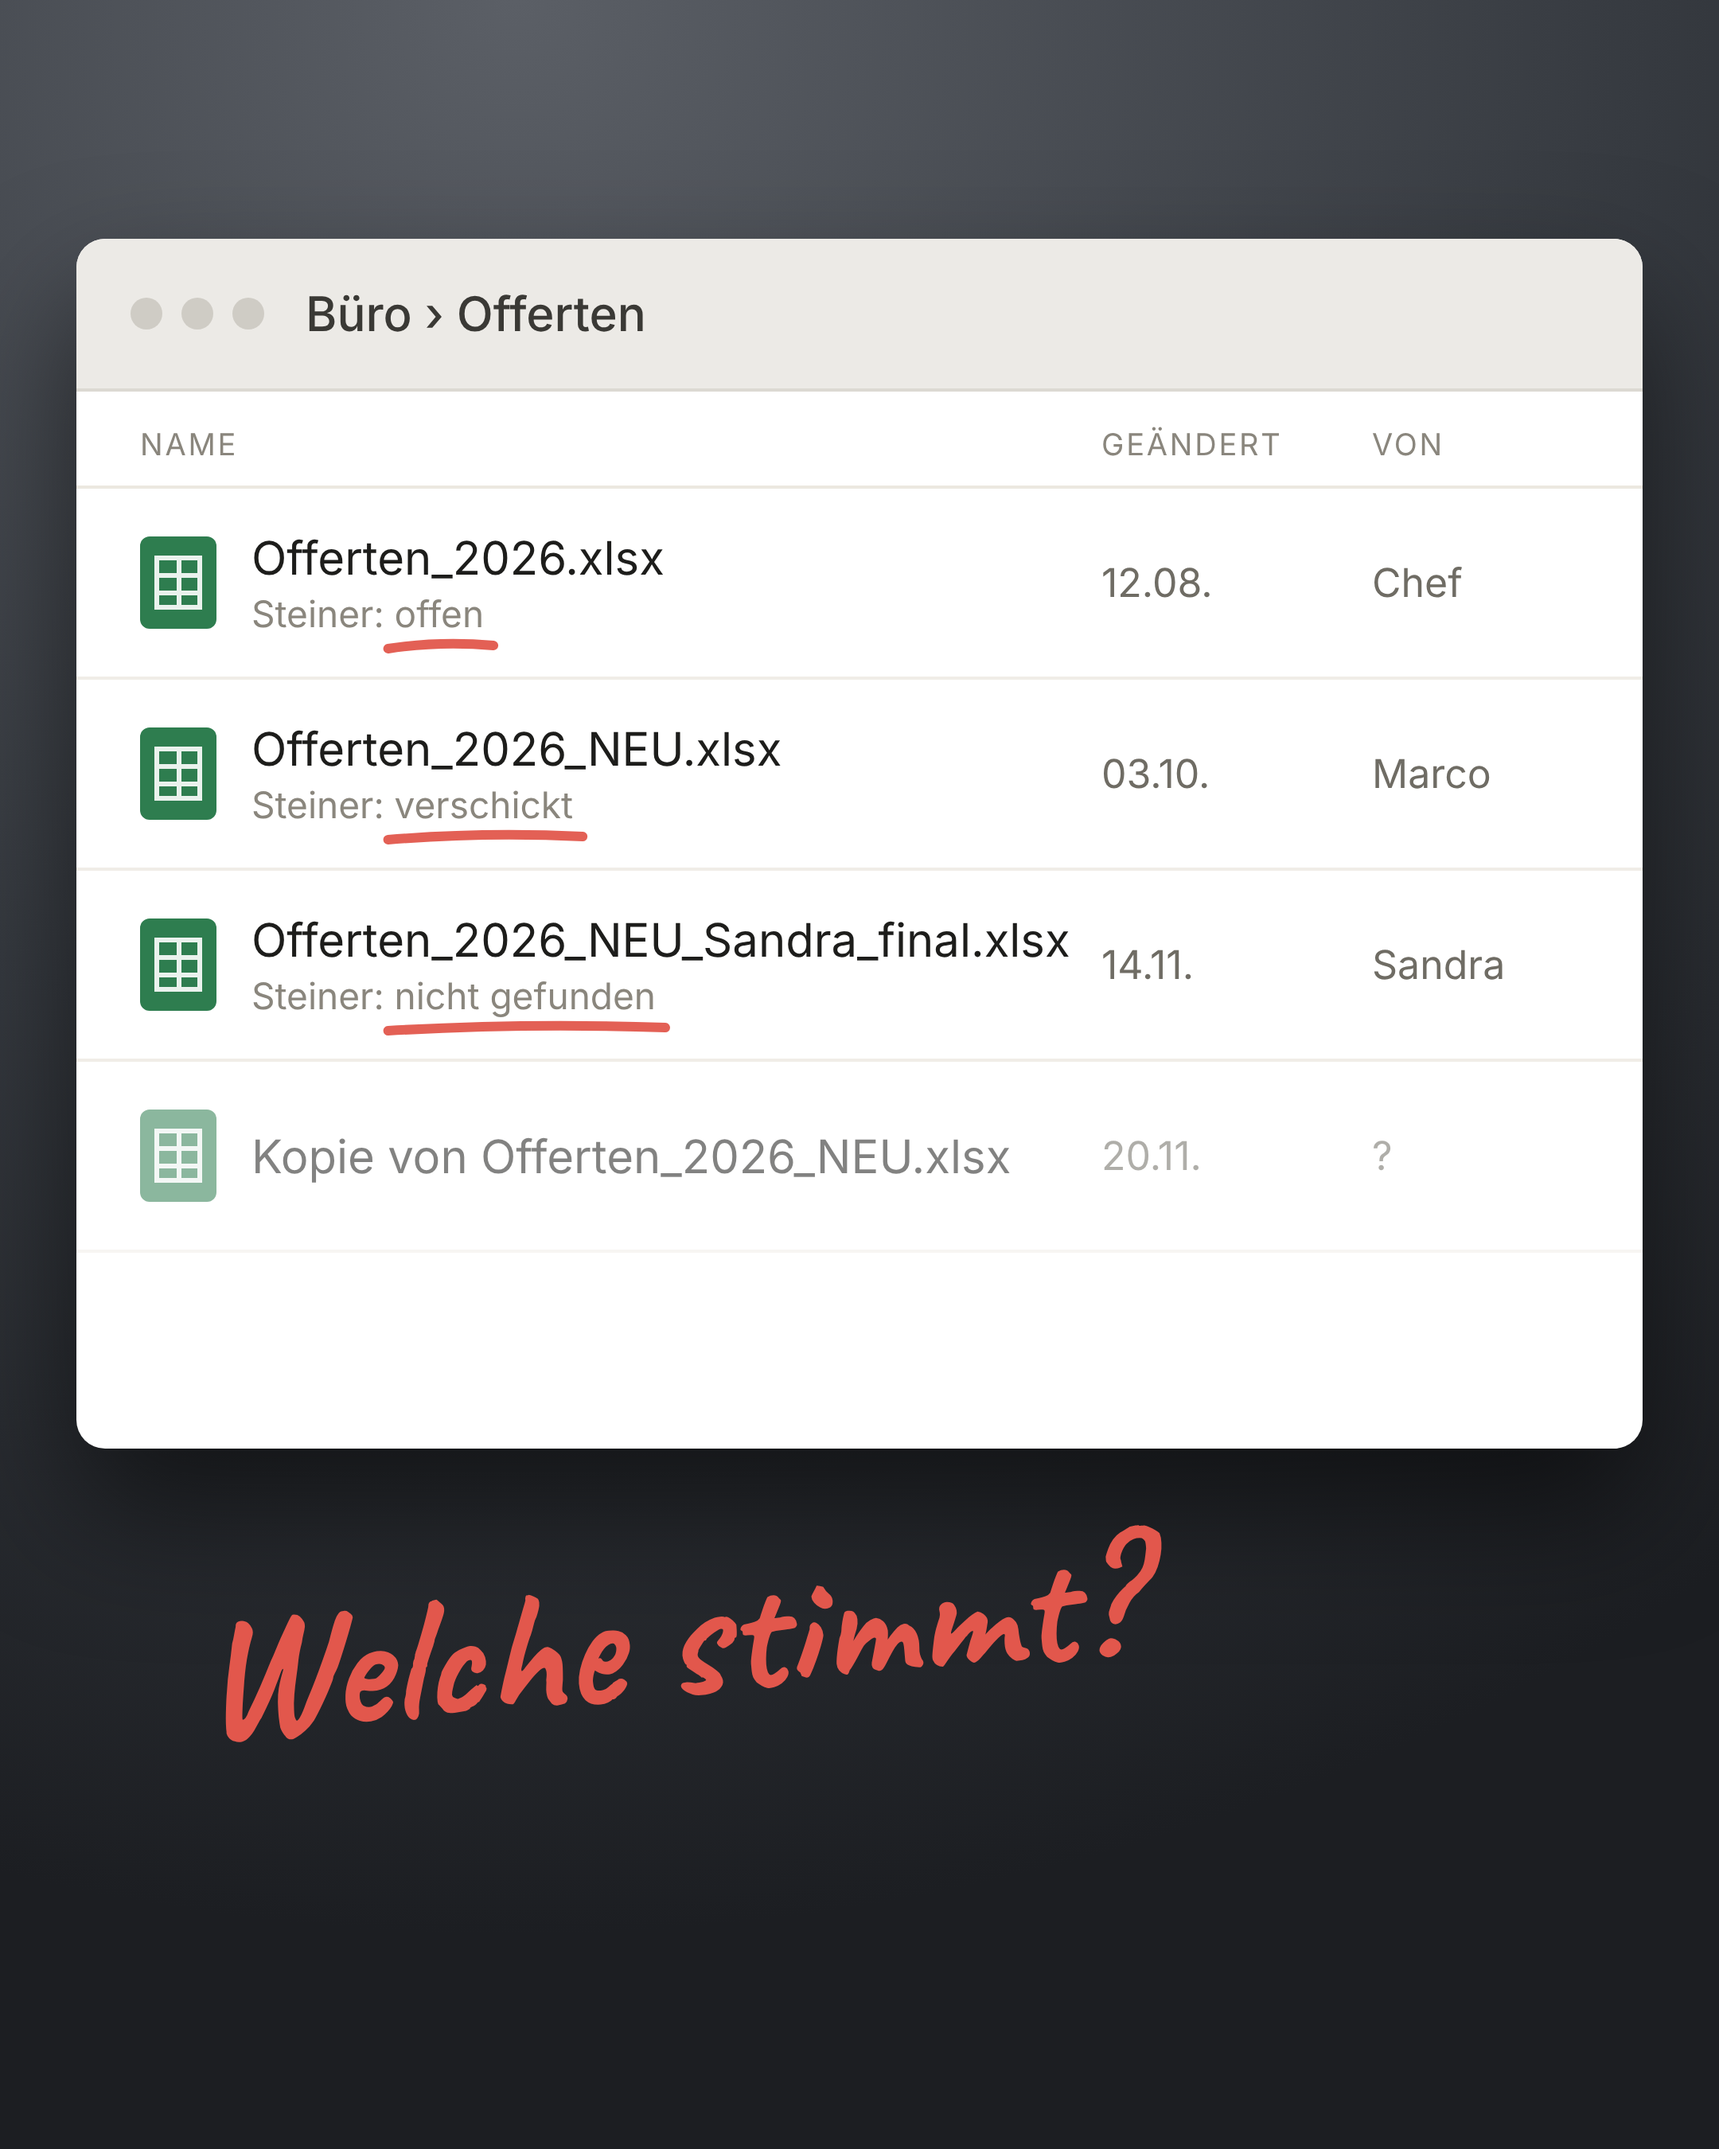
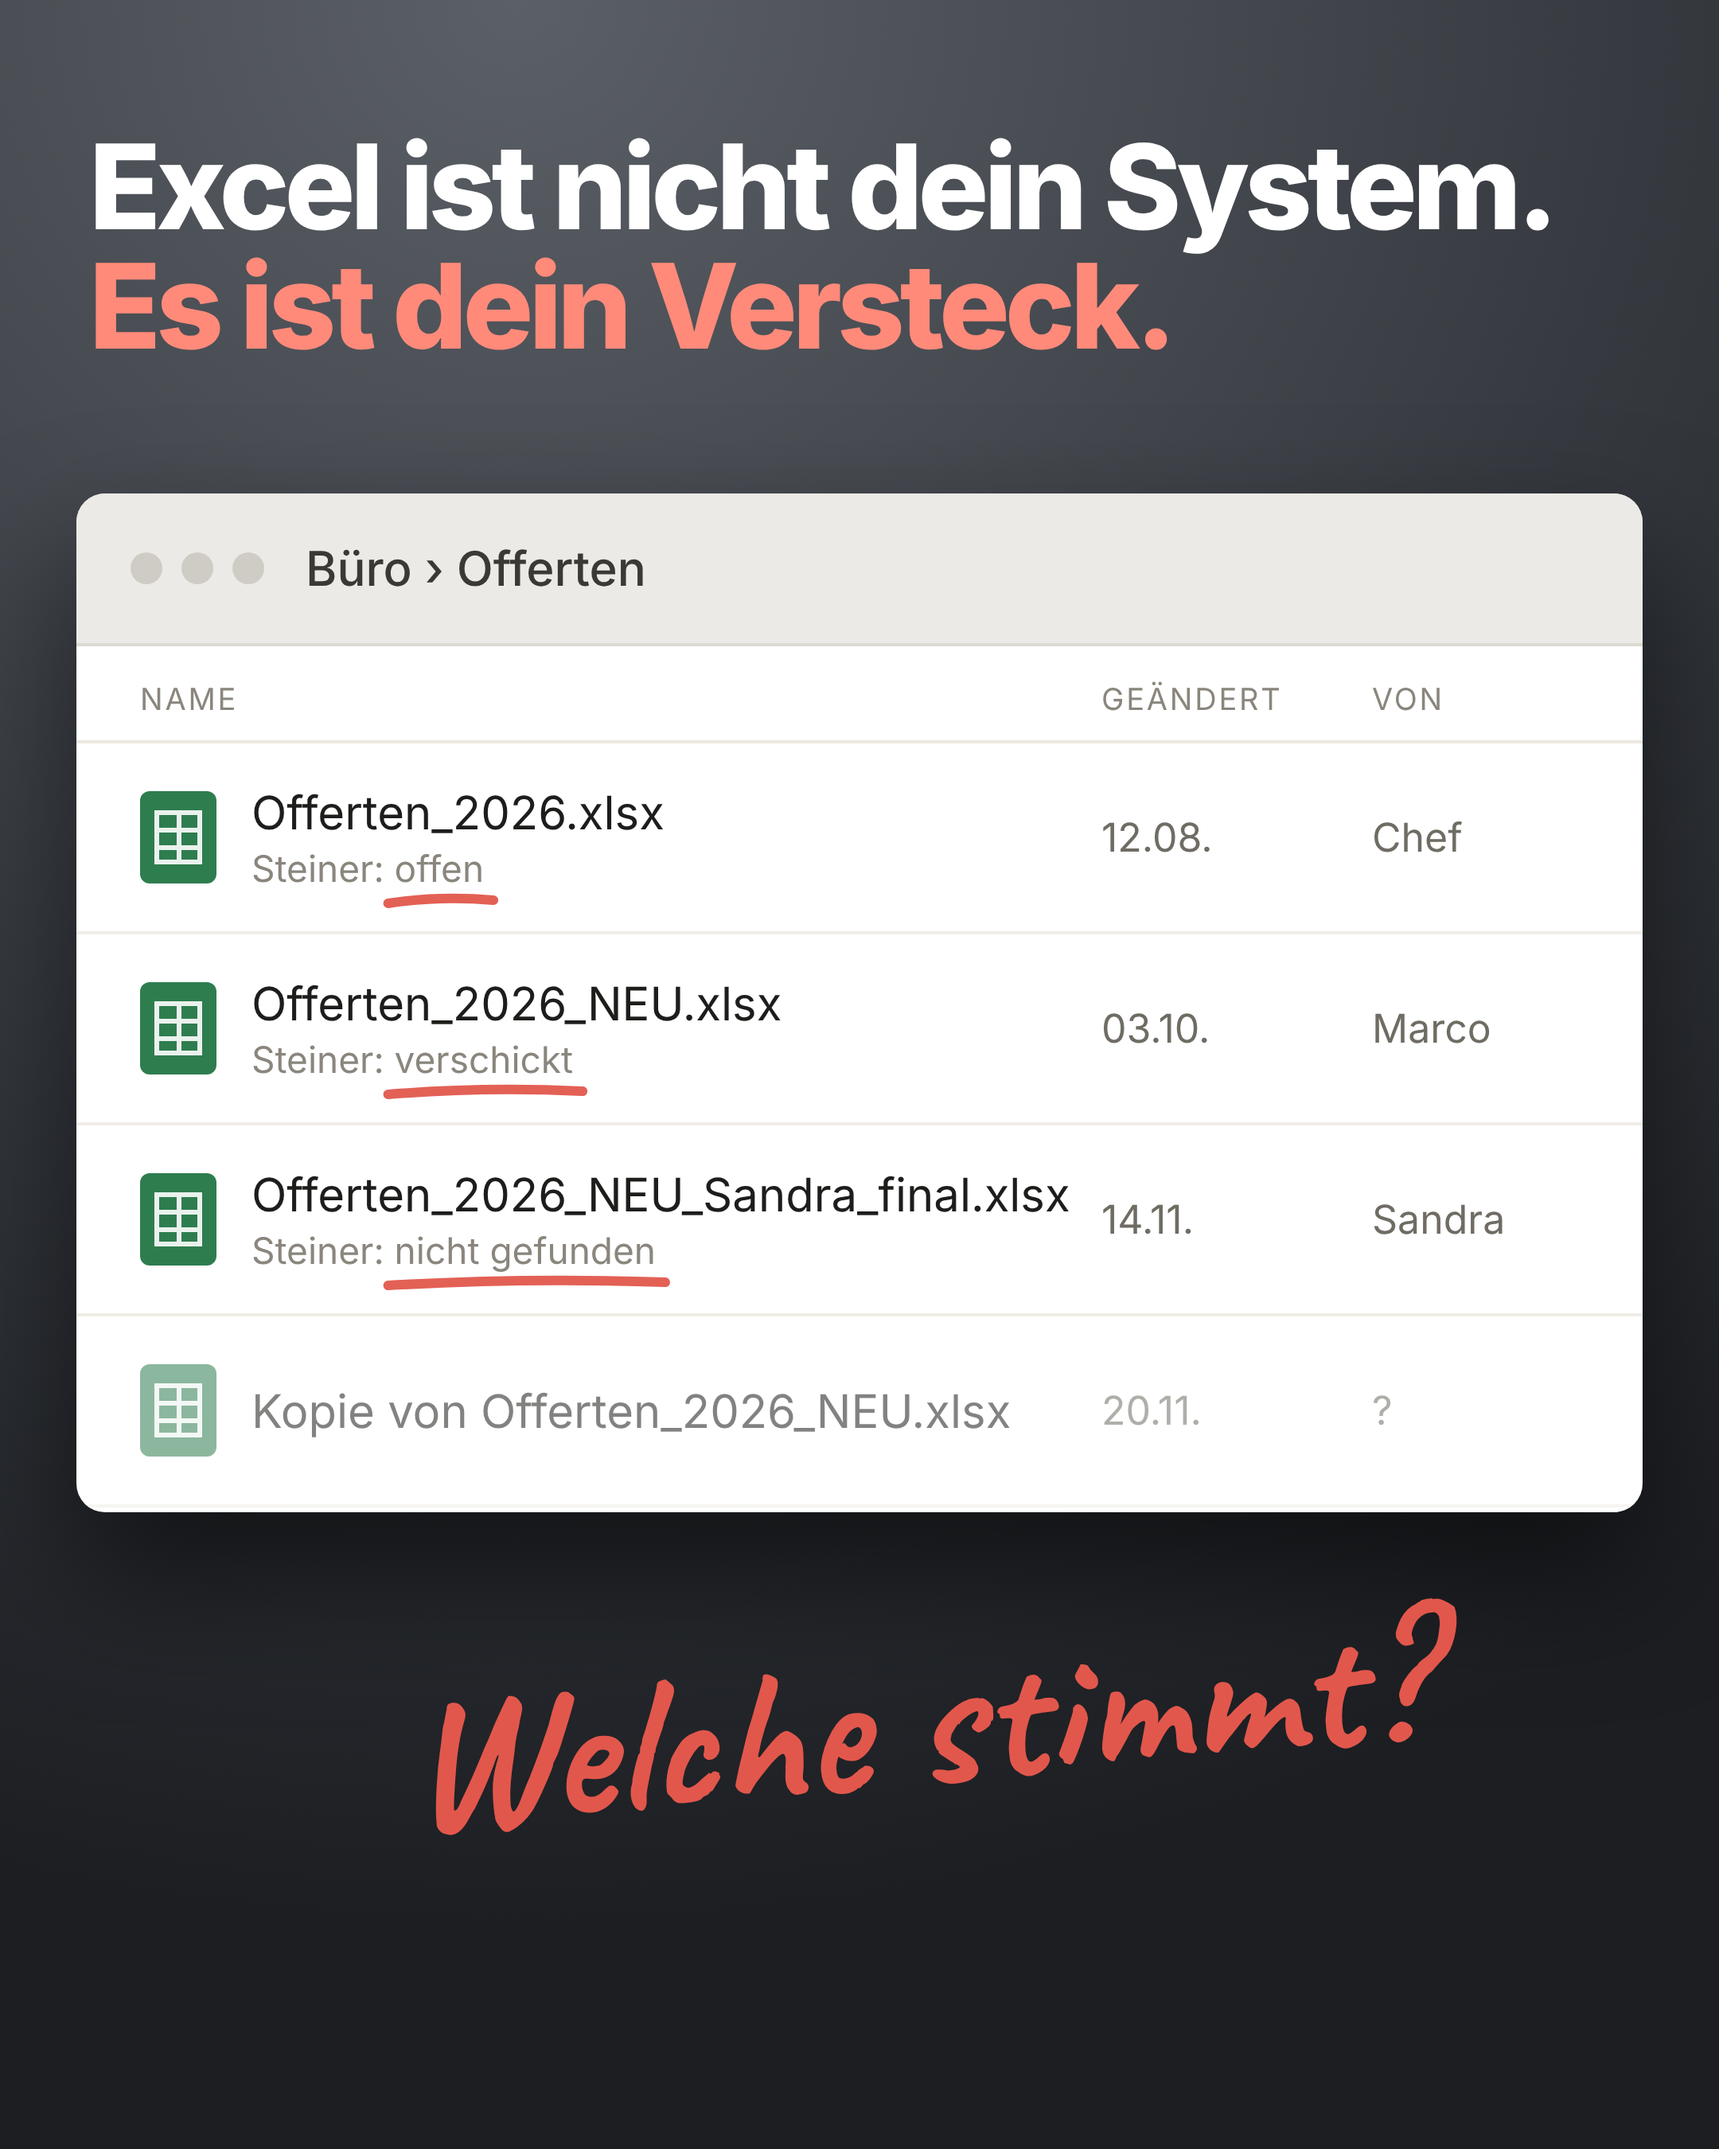
Bild 24.11 hookiger: Hook gross als Überschrift
Claude-Session: https://claude.ai/code/session_011uqJThEvfyZaZ27wjBcmdt

diff --git a/fotos/bild-excel.html b/fotos/bild-excel.html
@@ -7,7 +7,7 @@
 *{margin:0;padding:0;box-sizing:border-box;}
 .s{width:1080px;height:1350px;position:relative;overflow:hidden;
  background:radial-gradient(120% 90% at 30% 0%,#5b5f66 0%,#363a40 55%,#1c1e22 100%);font-family:'Inter',Helvetica,Arial,sans-serif;color:#1d1d1b;}
-.win{position:absolute;left:48px;top:150px;width:984px;height:760px;background:#fff;border-radius:18px;overflow:hidden;box-shadow:0 40px 80px rgba(0,0,0,.55);}
+.win{position:absolute;left:48px;top:310px;width:984px;height:640px;background:#fff;border-radius:18px;overflow:hidden;box-shadow:0 40px 80px rgba(0,0,0,.55);}
 .top{height:96px;background:#eceae6;border-bottom:2px solid #dcd9d2;display:flex;align-items:center;padding:0 34px;gap:26px;}
 .dots{display:flex;gap:12px;}.dots i{width:20px;height:20px;border-radius:50%;background:#cfccc5;display:block;}
 .pfad{font-size:30px;color:#3a3935;font-weight:500;}
@@ -23,9 +23,12 @@
 .name{white-space:nowrap;}
 .zeile{font-size:23px;color:#8a867d;margin-top:4px;}
 .rot{position:absolute;font-family:'Caveat',cursive;font-weight:700;color:#e2574c;white-space:nowrap;line-height:1;transform-origin:0 0;}
+h1{position:absolute;left:56px;top:80px;font-size:74px;font-weight:800;letter-spacing:-3px;line-height:1.02;color:#fff;}
+h1 span{color:#ff8a7a;}
 svg.mk{position:absolute;left:0;top:0;width:1080px;height:1350px;overflow:visible;pointer-events:none;}
 </style></head><body>
 <div class="s" id="s">
+  <h1>Excel ist nicht dein System.<br><span>Es ist dein Versteck.</span></h1>
   <div class="win">
     <div class="top"><div class="dots"><i></i><i></i><i></i></div><div class="pfad">B&#252;ro &#8250; Offerten</div></div>
     <div class="kopf"><span style="flex:1">Name</span><span style="width:170px">Ge&#228;ndert</span><span style="width:130px">Von</span></div>
@@ -34,7 +37,7 @@ svg.mk{position:absolute;left:0;top:0;width:1080px;height:1350px;overflow:visibl
     <div class="row"><div class="c1"><span class="ico"></span><div><div class="name">Offerten_2026_NEU_Sandra_final.xlsx</div><div class="zeile">Steiner: <span id="s3">nicht gefunden</span></div></div></div><div class="c2">14.11.</div><div class="c3">Sandra</div></div>
     <div class="row" style="opacity:.55"><div class="c1"><span class="ico"></span><div><div class="name">Kopie von Offerten_2026_NEU.xlsx</div></div></div><div class="c2">20.11.</div><div class="c3">?</div></div>
   </div>
-  <div class="rot" id="r1" style="font-size:110px;transform:rotate(-5deg)">Welche stimmt?</div>
+  <div class="rot" id="r1" style="font-size:120px;transform:rotate(-5deg)">Welche stimmt?</div>
   <svg class="mk" id="mk" viewBox="0 0 1080 1350"></svg>
 </div>
 <script>
@@ -43,7 +46,7 @@ document.fonts.ready.then(()=>{
   const red='#e2574c';let svg='';
   ['s1','s2','s3'].forEach(id=>{const r=document.getElementById(id).getBoundingClientRect();const l=r.left-S.left,rr=r.right-S.left,y=r.bottom-S.top+6;
     svg+=`<path d="M ${l-4} ${y+2} Q ${(l+rr)/2} ${y-3} ${rr+6} ${y}" fill="none" stroke="${red}" stroke-width="6" stroke-linecap="round" opacity=".95"/>`;});
-  const r1=document.getElementById('r1');r1.style.left='120px';r1.style.top='1000px';
+  const r1=document.getElementById('r1');r1.style.left='250px';r1.style.top='1050px';
   document.getElementById('mk').innerHTML=svg;
   const R=r1.getBoundingClientRect();
   window.__ok={notiz:[Math.round(R.left-S.left),Math.round(R.right-S.left),Math.round(R.bottom-S.top)]};

diff --git a/posts/2026-11-24-excel.md b/posts/2026-11-24-excel.md
@@ -52,4 +52,4 @@ Florian beantwortet die eigene Frage mit seiner echten Zahl, keine zweite Frage 
 
 ## Bild
 
-fotos/bild-excel.png (Renderer: fotos/render-excel.js). Dateifenster "Büro > Offerten" mit 4 Tabellen: Offerten_2026.xlsx (Steiner: offen), Offerten_2026_NEU.xlsx (Steiner: verschickt), Offerten_2026_NEU_Sandra_final.xlsx (Steiner: nicht gefunden), blass Kopie von Offerten_2026_NEU.xlsx. Die 3 Status rot unterstrichen, rot von Hand "Welche stimmt?". Neutrales Tabellen-Symbol, kein Programm-Logo.
+fotos/bild-excel.png (Renderer: fotos/render-excel.js). Oben gross der Hook "Excel ist nicht dein System. Es ist dein Versteck." (zweite Zeile rot), darunter Dateifenster "Büro > Offerten" mit 4 Tabellen: Offerten_2026.xlsx (Steiner: offen), Offerten_2026_NEU.xlsx (Steiner: verschickt), Offerten_2026_NEU_Sandra_final.xlsx (Steiner: nicht gefunden), blass Kopie von Offerten_2026_NEU.xlsx. Die 3 Status rot unterstrichen, rot von Hand "Welche stimmt?". Neutrales Tabellen-Symbol, kein Programm-Logo.
